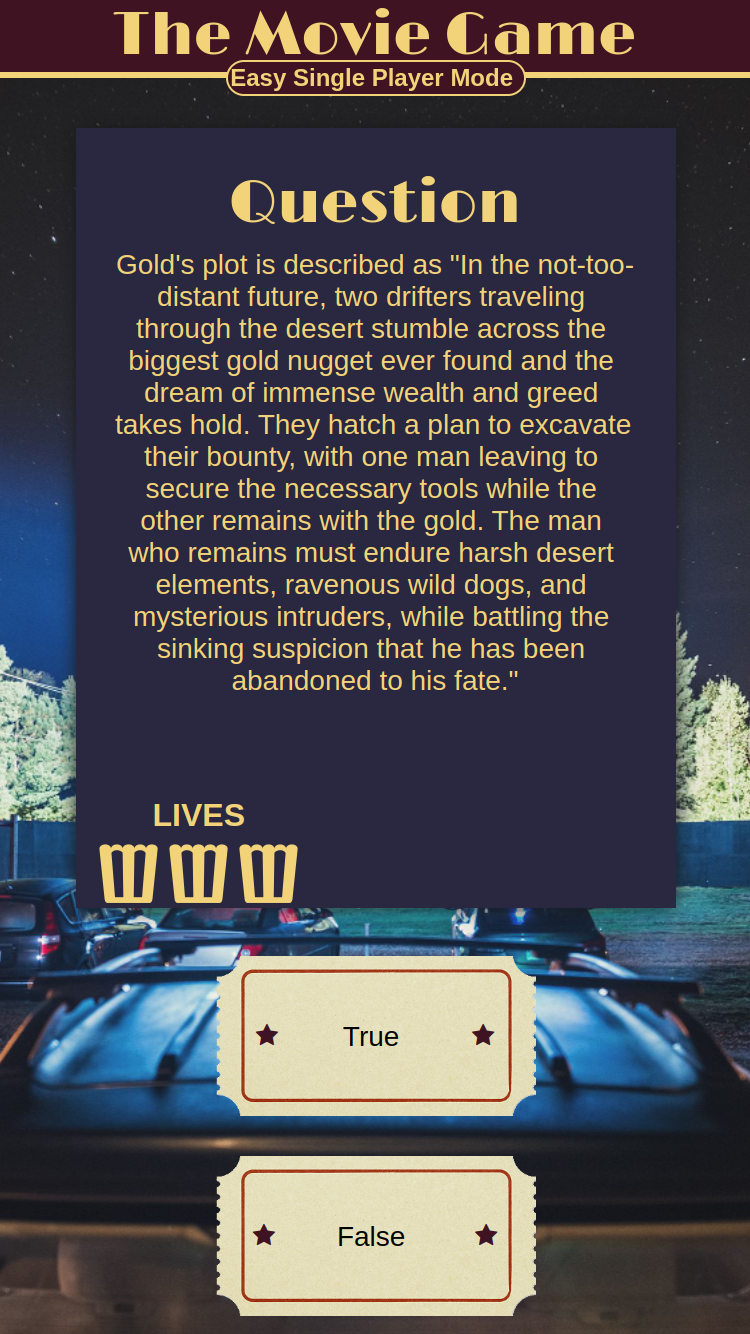
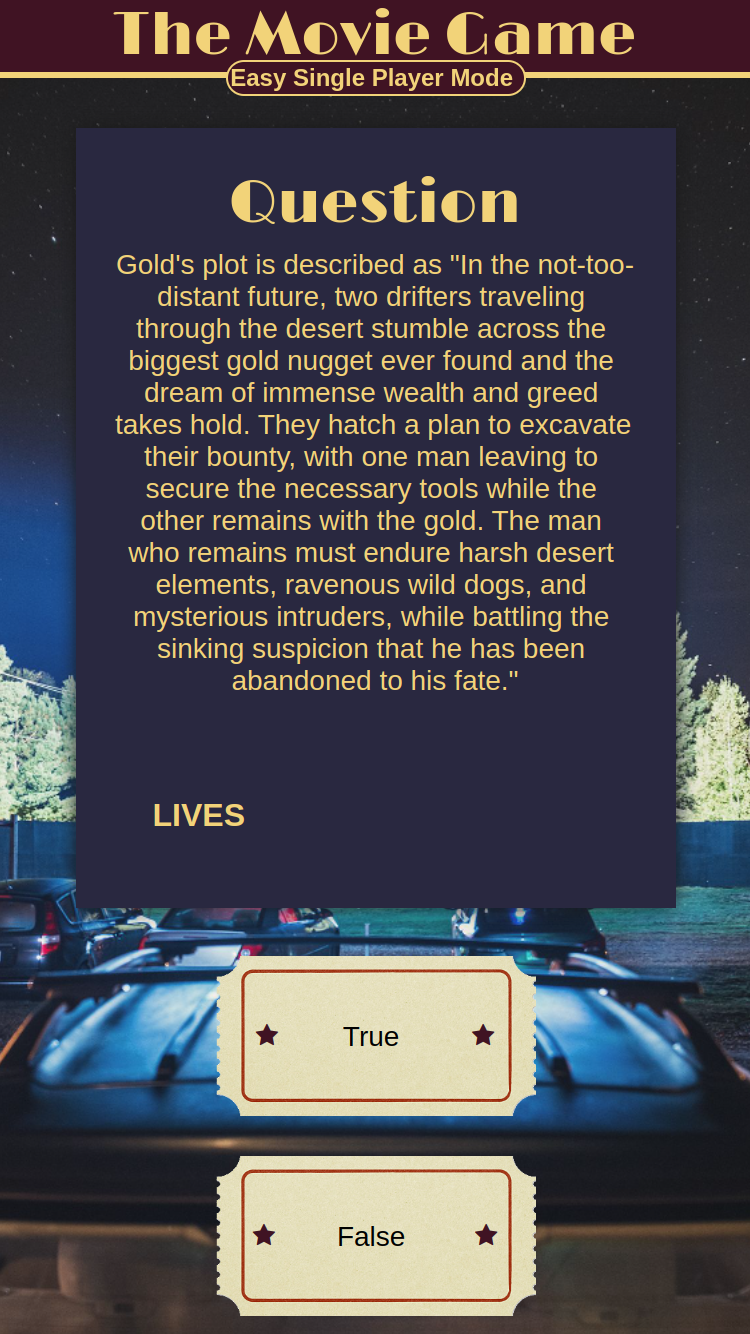
chore(how to play): set position and color of animation

Changed region(s): [[0.1227, 0.6147, 0.3987, 0.6762]]

diff --git a/Components/HowToPlay/EasyModeLivesHelp.js b/Components/HowToPlay/EasyModeLivesHelp.js
@@ -3,6 +3,7 @@ import { useRef, useEffect } from 'react';
 import { Entypo } from '@expo/vector-icons';
 import GameStartEasy from "../../Images/gameStartEasy.png";
 import GameStartEasyMobile from "../../Images/gameStartEasyMobile.png";
+import { MaterialCommunityIcons } from '@expo/vector-icons'; 
 
 export default function EasyModeLivesHelp() {
     const lifePointerCircle = useRef(
@@ -43,17 +44,29 @@ export default function EasyModeLivesHelp() {
                 <Animated.View
                     style={{
                         transform: [
-                                { translateX: Platform.OS === "web" ? -50 : -63 },
-                                { translateY: Platform.OS === "web" ? (screenWidth < 800 ? 41 : 33) : 35 },
+                                { translateX: Platform.OS === "web" ? (screenWidth < 800 ? -120 : -100) : -65 },
+                                { translateY: Platform.OS === "web" ? 10 : 70 },
                         ],
                         opacity:lifePointerCircle                    
                     }} 
                 >
-                    <Entypo
-                        name="circle"
-                        size={40}
-                        color= "white" 
-                    />
+                    <View style={{flexDirection: 'row'}}>
+                        <MaterialCommunityIcons
+                            name="popcorn"
+                            size={screenWidth > 800 ? 12 : 16}
+                            color="#F2D379"
+                        />
+                        <MaterialCommunityIcons
+                            name="popcorn"
+                            size={screenWidth > 800 ? 12 : 16}
+                            color="#F2D379"
+                        />
+                        <MaterialCommunityIcons
+                            name="popcorn"
+                            size={screenWidth > 800 ? 12 : 16}
+                            color="#F2D379"
+                        />
+                    </View>
                 </Animated.View>
             </ImageBackground>
         </View>
